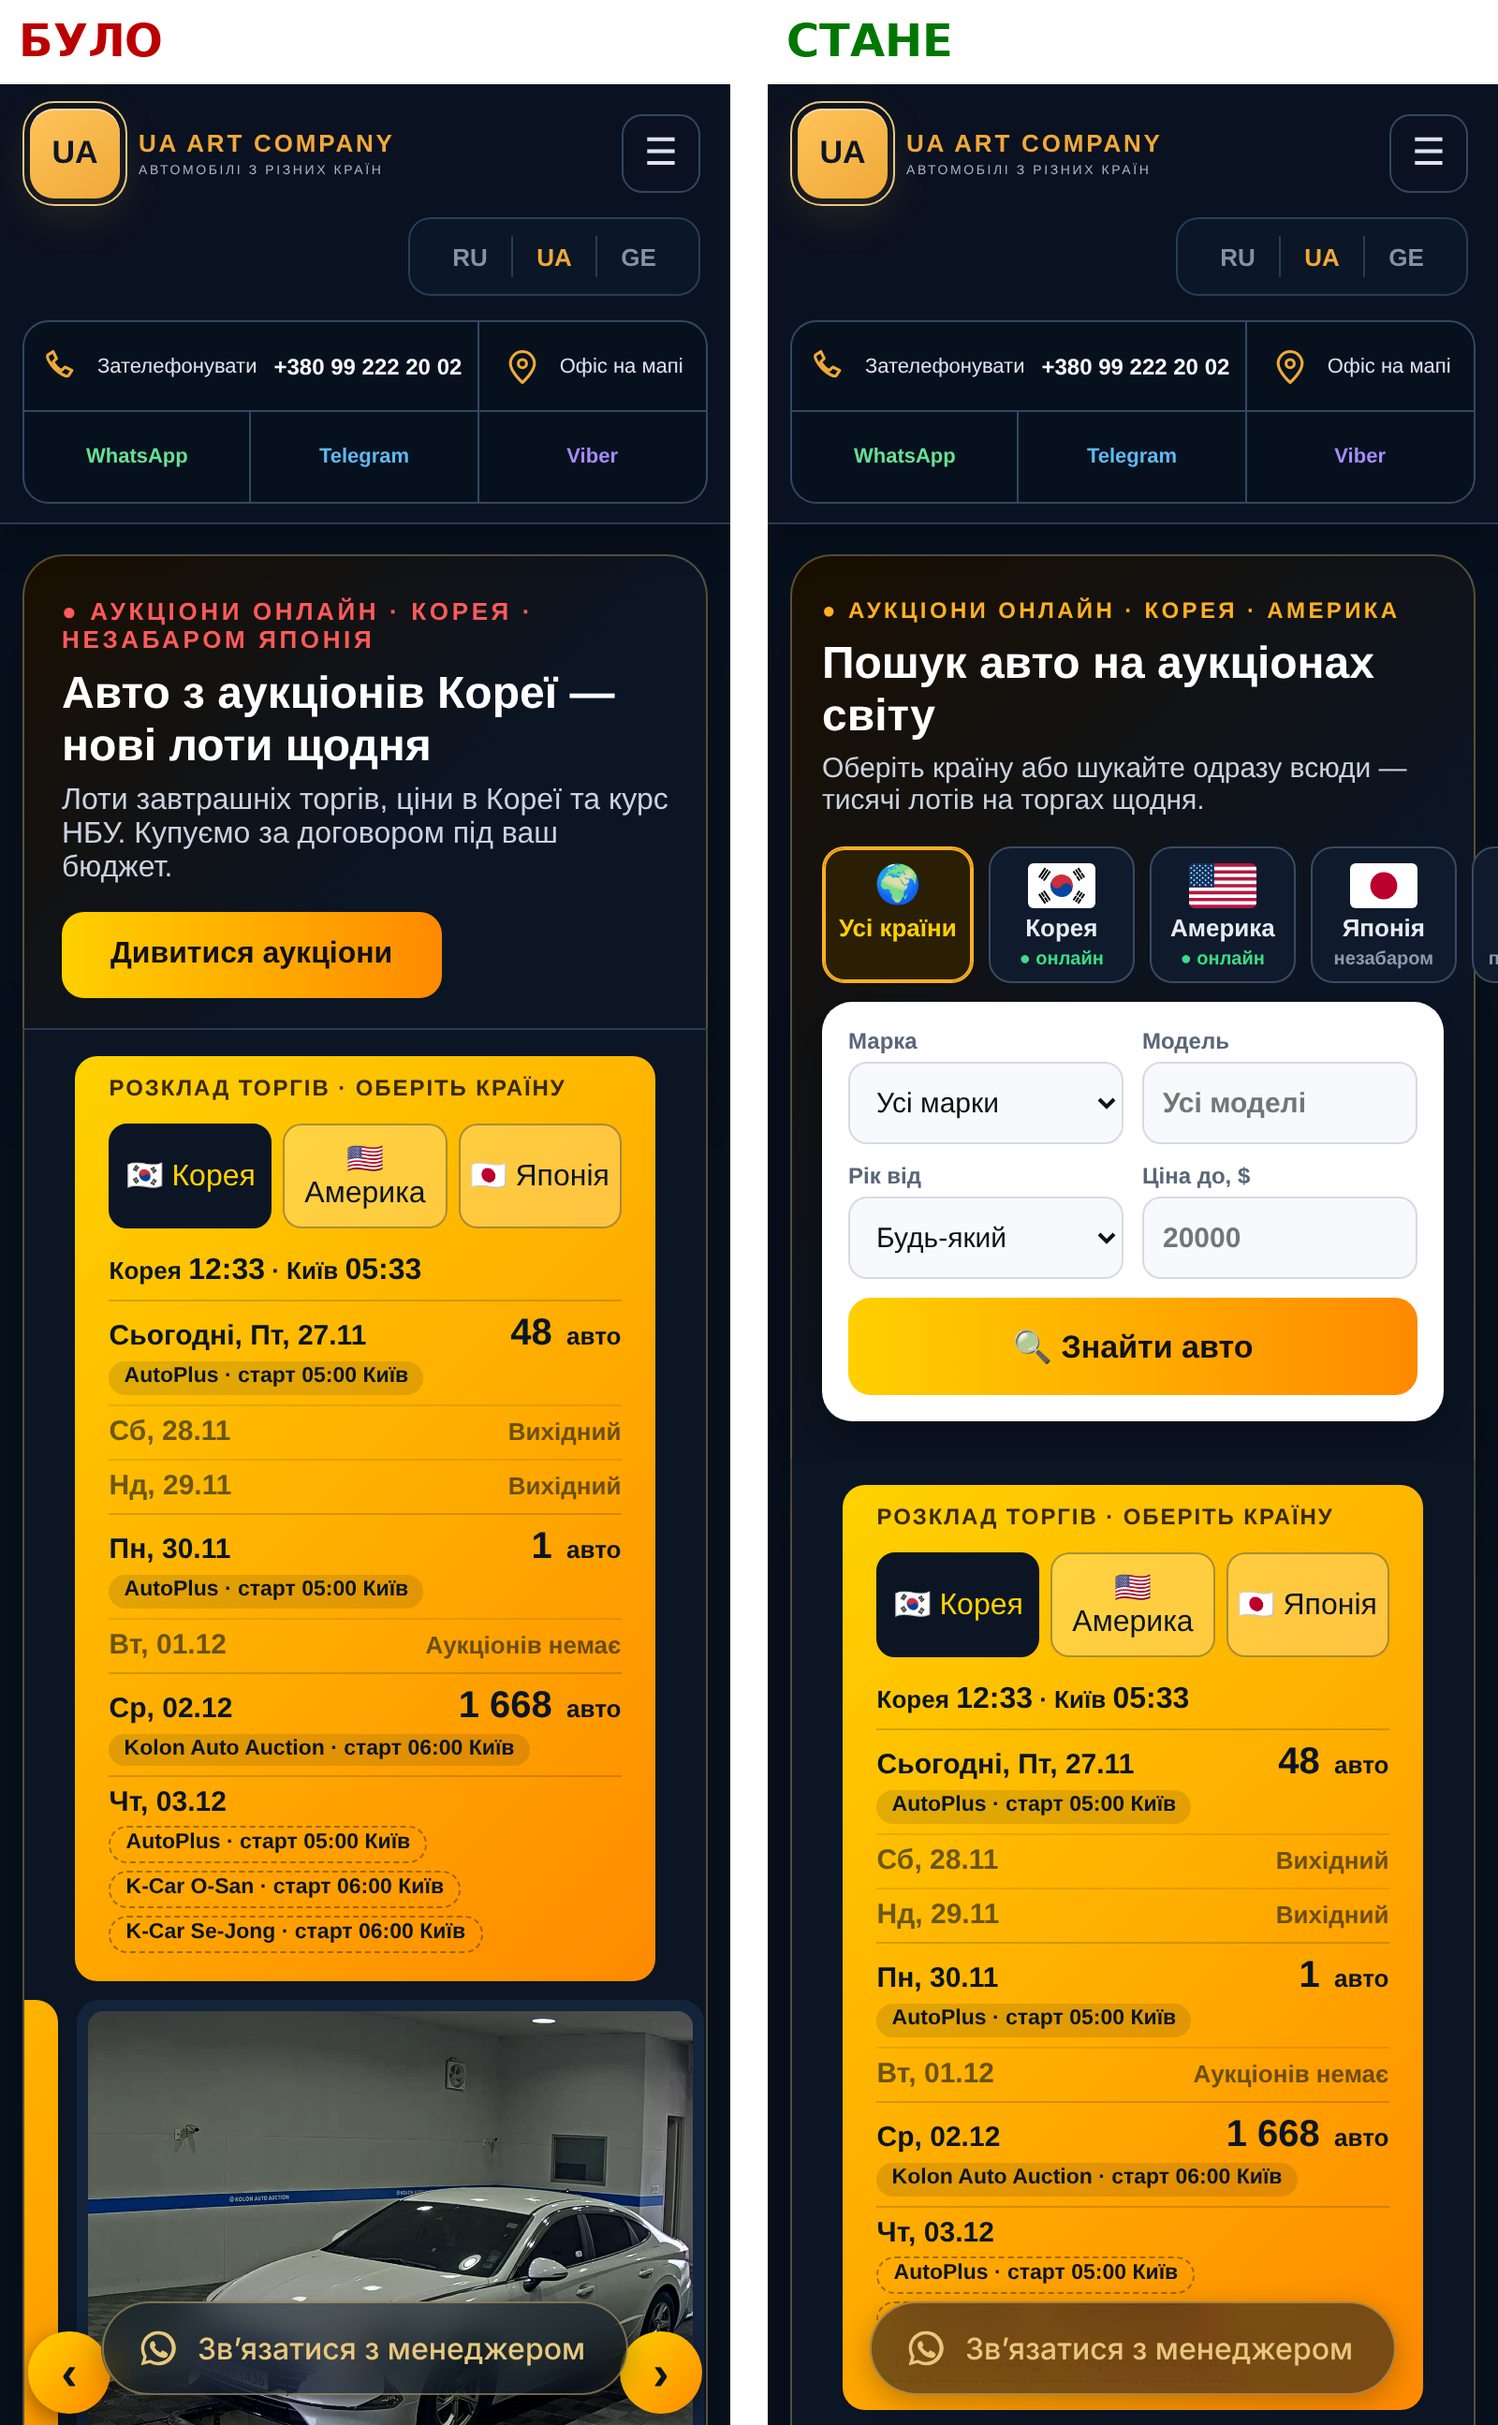
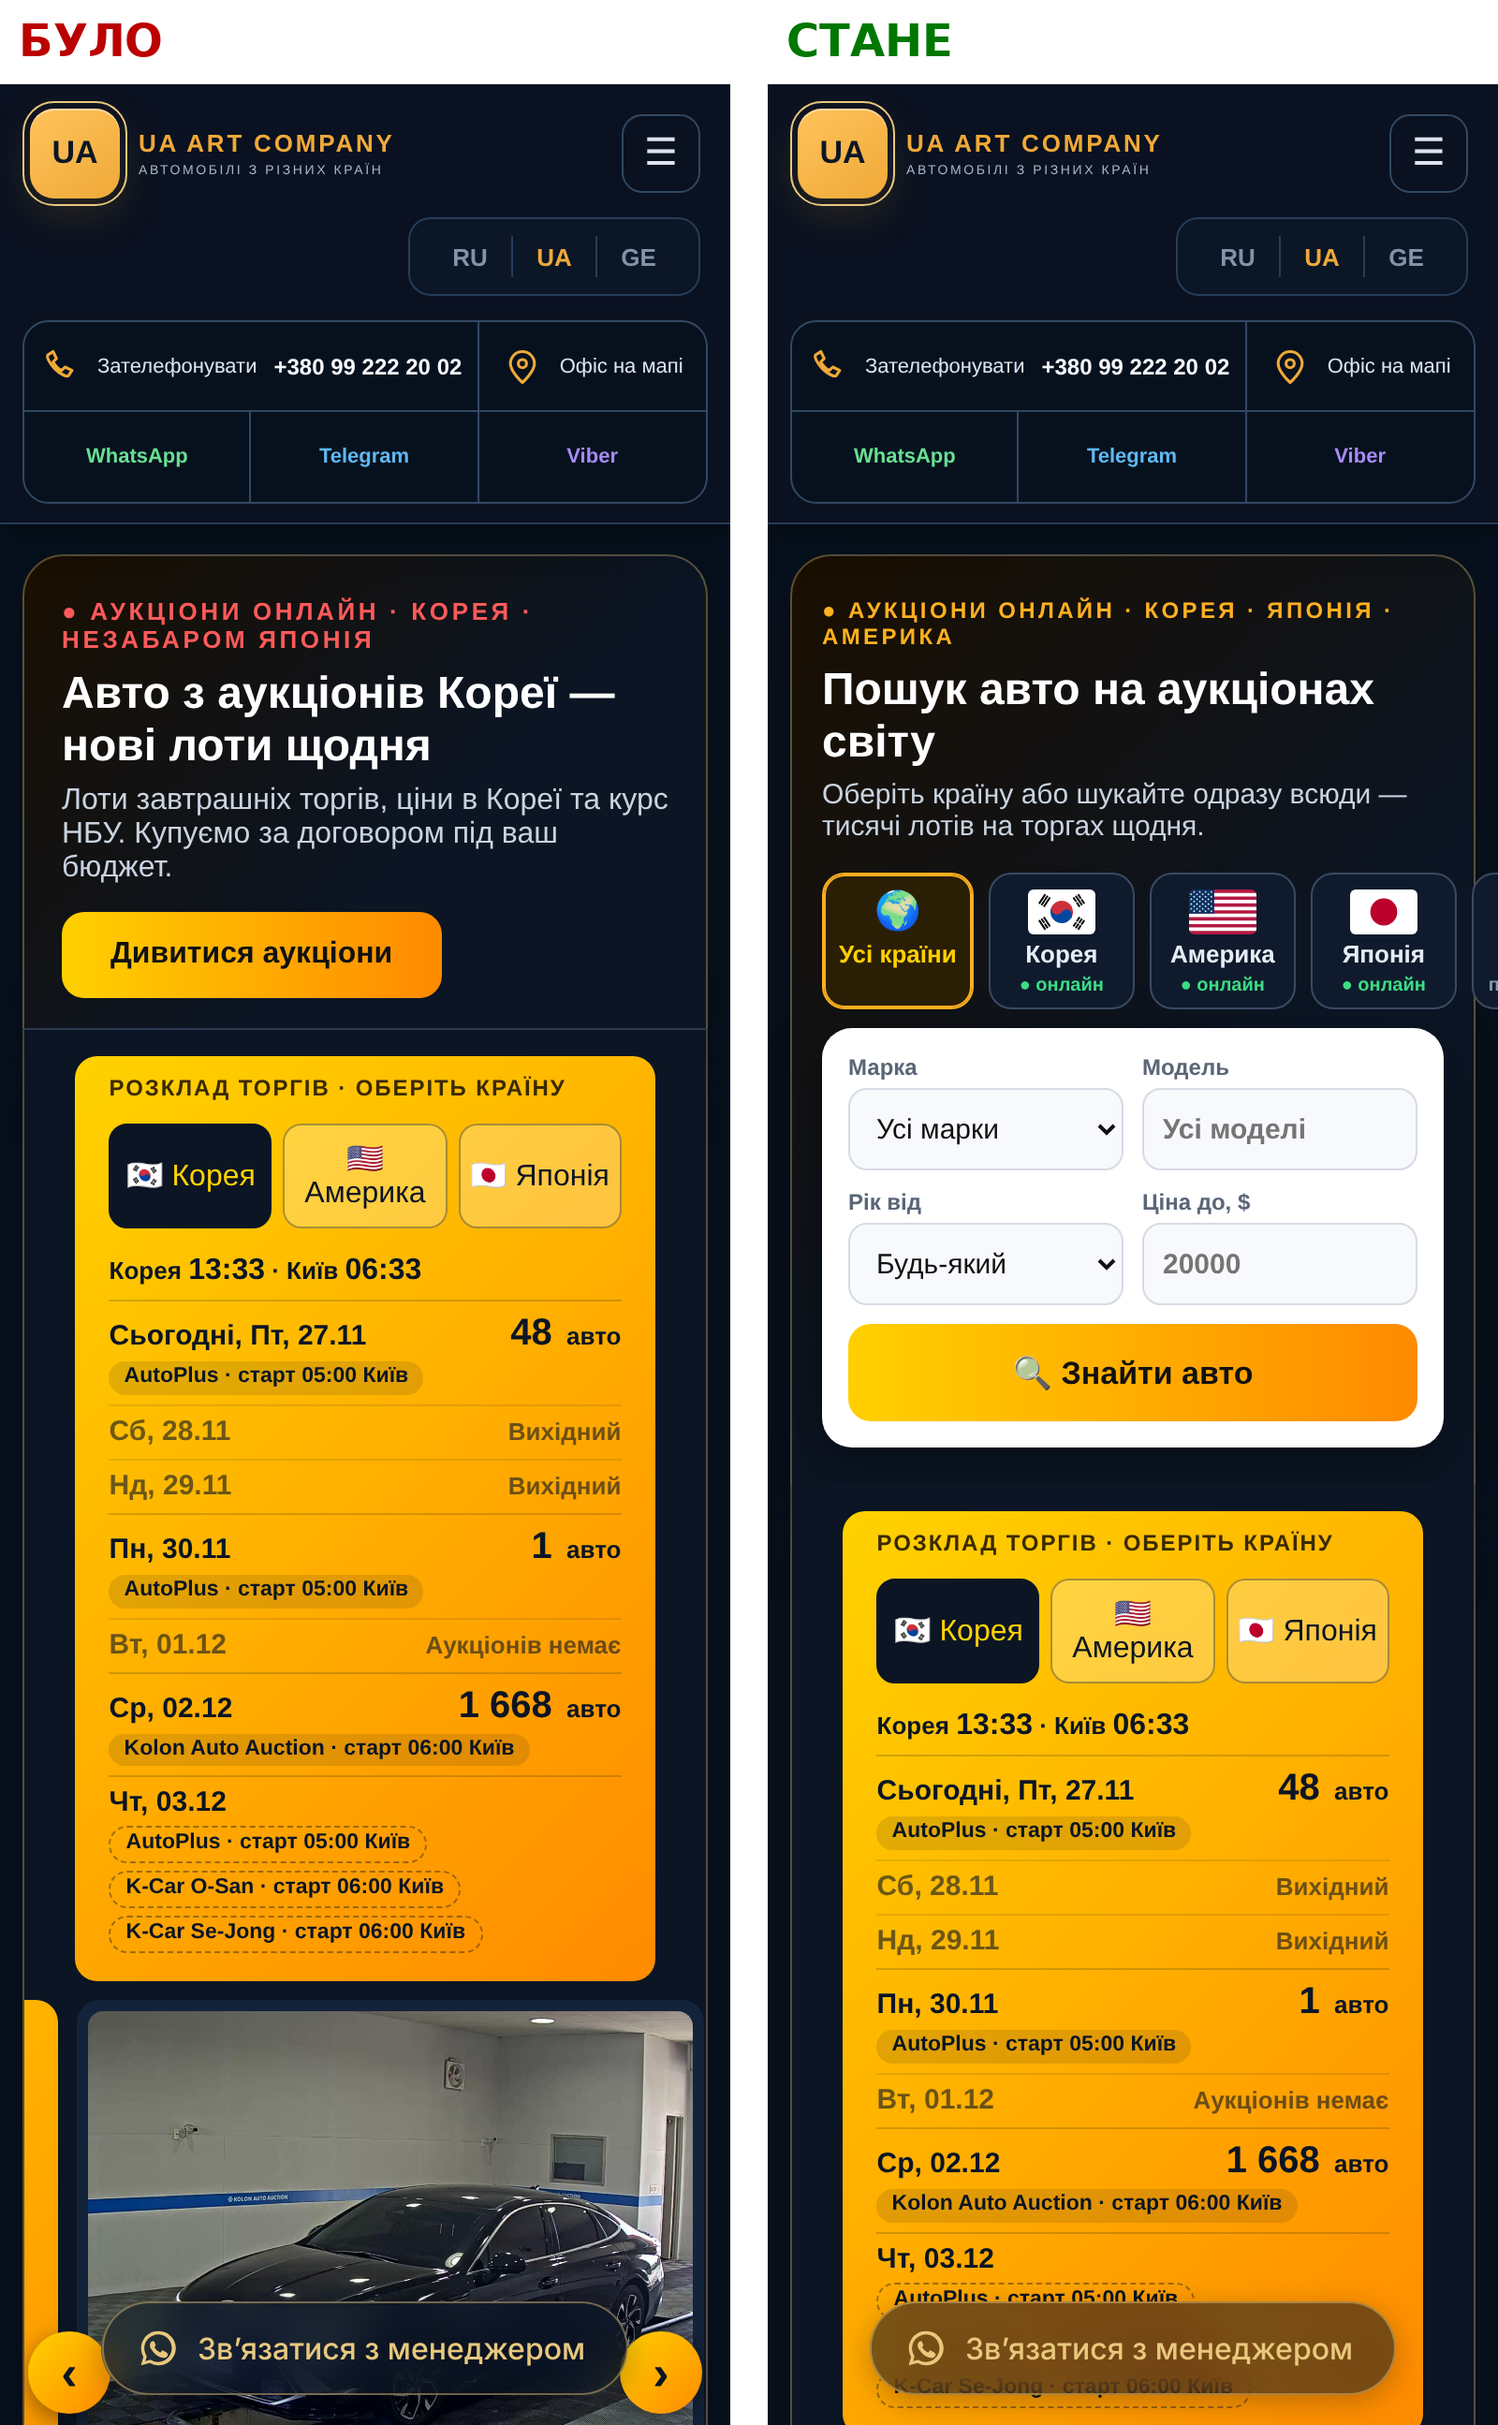
SEARCH-HOME-001 B: Japan online -> japan.html with criteria; preview request (no launch) (#2270)
Claude-Session: https://claude.ai/code/session_012KEXaZe2VwFK4cJf7BGd8N

Changed region(s): [[0.5312, 0.2471, 0.9688, 0.9575], [0.0312, 0.8031, 0.4688, 1.0], [0.5625, 0.9884, 0.9688, 1.0]]

diff --git a/cloud/search_home_b_001/ua_search_home.py b/cloud/search_home_b_001/ua_search_home.py
@@ -4,7 +4,8 @@ Only this: the inside of the auctions section (<section class="ua-kr-auc">, writ
 — a country choice (all countries, Korea, America, Japan, Europe, China, Canada, UAE, Georgia, as the country row
 below) and make, model, year from, price to, then «Знайти авто». The section and its class stay, so the home blocks
 frame (ua_home_blocks) and the ticker under it stay as they are. The search opens the country's own page: Korea —
-its lot list with the criteria in the link (korea.html?maker=&model=&year=&usd=#lots), America — the USA page,
+and Japan (installed by JAPAN-LHD-001) — the lot list with the criteria in the link
+(korea.html / japan.html?maker=&model=&year=&usd=#lots), America — the USA page,
 the others — the order form for that country. Countries are radio buttons (native, keyboard and screen-reader ready);
 a small script only builds the link. Texts carry the site's data-uk/ru/ka twins.
 """
@@ -19,7 +20,7 @@ COUNTRIES = (
     ('all', ('Усі країни', 'Все страны', 'ყველა ქვეყანა'), '', 'korea.html'),
     ('korea', ('Корея', 'Корея', 'კორეა'), 'online', 'korea.html'),
     ('usa', ('Америка', 'Америка', 'ამერიკა'), 'online', 'usa.html'),
-    ('japan', ('Японія', 'Япония', 'იაპონია'), 'soon', 'podbor.html'),
+    ('japan', ('Японія', 'Япония', 'იაპონია'), 'online', 'japan.html'),
     ('europe', ('Європа', 'Европа', 'ევროპა'), 'order', 'podbor.html'),
     ('china', ('Китай', 'Китай', 'ჩინეთი'), 'order', 'podbor.html'),
     ('canada', ('Канада', 'Канада', 'კანადა'), 'order', 'podbor.html'),
@@ -33,8 +34,8 @@ MAKES = ('Hyundai', 'Kia', 'Genesis', 'Toyota', 'Lexus', 'Honda', 'Nissan', 'Maz
          'Renault', 'KG Mobility')
 YEARS = tuple(range(2026, 2009, -1))
 T = {
-    'ey': ('● Аукціони онлайн · Корея · Америка', '● Аукционы онлайн · Корея · Америка',
-           '● აუქციონები ონლაინ · კორეა · ამერიკა'),
+    'ey': ('● Аукціони онлайн · Корея · Японія · Америка', '● Аукционы онлайн · Корея · Япония · Америка',
+           '● აუქციონები ონლაინ · კორეა · იაპონია · ამერიკა'),
     'h2': ('Пошук авто на аукціонах світу', 'Поиск авто на аукционах мира', 'ავტომობილის ძიება მსოფლიოს აუქციონებზე'),
     'sub': ('Оберіть країну або шукайте одразу всюди — тисячі лотів на торгах щодня.',
             'Выберите страну или ищите сразу везде — тысячи лотов на торгах каждый день.',
@@ -143,7 +144,7 @@ JS = ("(function(){var f=document.querySelector('.ua-kr-auc .sh-form');if(!f)ret
       "{attributes:true,attributeFilter:['lang']});"
       "f.addEventListener('submit',function(e){e.preventDefault();var c=f.querySelector('[name=sh-country]:checked'),"
       "key=c?c.value:'all',href=c?c.getAttribute('data-href'):'korea.html',lang=document.documentElement.lang||'uk',q=[];"
-      "if(href==='korea.html'){['maker','model','year','usd'].forEach(function(n){var v=(f.elements[n].value||'').trim();"
+      "if(href==='korea.html'||href==='japan.html'){['maker','model','year','usd'].forEach(function(n){var v=(f.elements[n].value||'').trim();"
       "if(v)q.push(n+'='+encodeURIComponent(v));});location.href=href+(q.length?'?'+q.join('&'):'')+'#lots';}"
       "else if(href==='podbor.html'){location.href='podbor.html?strana='+key+'&lang='+lang;}"
       "else{location.href=href;}});})();")

diff --git a/cloud/search_home_b_001/test_release.py b/cloud/search_home_b_001/test_release.py
@@ -47,6 +47,7 @@ class ModuleTests(unittest.TestCase):
         for key in ('all', 'korea', 'usa', 'japan', 'europe', 'china', 'canada', 'uae', 'georgia'):
             self.assertIn('value="%s"' % key, block)
         self.assertIn('data-href="usa.html"', block)
+        self.assertIn('value="japan" data-href="japan.html"', block)  # JAPAN-LHD-001 installed its page
         self.assertIn("'#lots'", block)
         self.assertIn("['maker','model','year','usd']", block)
         for word in ('2mcars', 'vsbrothers', 'vs brothers'):
